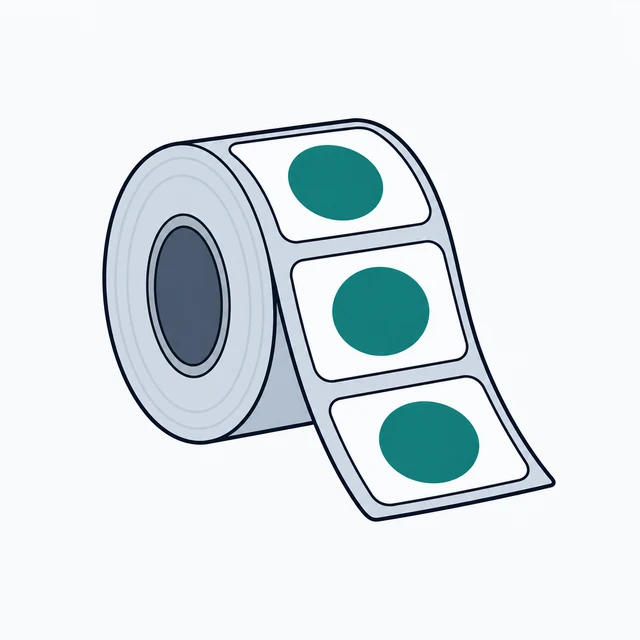
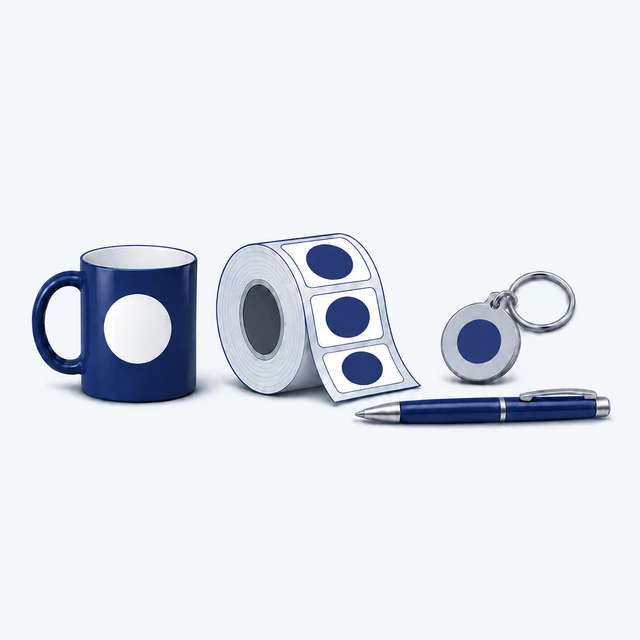
feat: imágenes del catálogo en azul marino de la marca
Las 8 imágenes de categoría se redibujaron con el generador de imágenes
de Codex en estilo semirrealista, con azul marino #1f2a6b y grises.
Norman validó cada una.

- Corte y grabado láser muestra una grabadora láser (antes un plotter).
- Mobiliario muestra mostrador y estante de melamina (antes cajas).
- Se retiran entrega, plotter-de-corte, folletos y rollos-de-vinil.
- La prueba de imágenes falla si alguna tiene píxeles verdes.
- docs/diseno.md documenta color, estilo y encuadre de la tarjeta 5:2.

Changed region(s): [[0.0312, 0.1875, 0.9688, 0.8125]]

diff --git a/tests/unit/catalogo-imagenes.test.ts b/tests/unit/catalogo-imagenes.test.ts
@@ -8,18 +8,34 @@ import { imagenPorCategoria } from "@/modules/catalogo/imagenes";
 const casos = [
   ["Rotulación y gran formato", "lona-publicitaria"], ["Impresión y artes gráficas", "impresora-gran-formato"],
   ["Diseño y branding", "tarjetas"], ["Publicidad digital y medios", "roll-up"], ["Artículos promocionales", "etiquetas"],
-  ["Letras corpóreas y rótulos luminosos", "rotulo-rigido"], ["Corte y grabado láser", "plotter-de-corte"],
-  ["Mobiliario", "entrega"], ["Otra categoría", "entrega"],
+  ["Letras corpóreas y rótulos luminosos", "rotulo-rigido"], ["Corte y grabado láser", "grabado-laser"],
+  ["Mobiliario", "mueble-exhibidor"], ["Otra categoría", "lona-publicitaria"],
 ];
+const archivos = [...new Set(casos.map(([, archivo]) => archivo))];
+const ruta = (archivo: string) => path.join("public", "seed", "productos", `${archivo}.webp`);
+
 it.each(casos)("asigna imagen a %s sin tildes ni distinción de mayúsculas", (categoria, archivo) => {
   const esperada = `/seed/productos/${archivo}.webp`;
   expect(imagenPorCategoria(categoria)).toBe(esperada);
-  expect(imagenPorCategoria(categoria.normalize("NFD").replace(/[\u0300-\u036f]/g, "").toUpperCase())).toBe(esperada);
+  expect(imagenPorCategoria(categoria.normalize("NFD").replace(/[̀-ͯ]/g, "").toUpperCase())).toBe(esperada);
 });
 it("los ocho archivos existen y tienen 640 por 640 píxeles", async () => {
-  for (const archivo of new Set(casos.map(([, archivo]) => archivo))) {
-    const ruta = path.join("public", "seed", "productos", `${archivo}.webp`);
-    expect(existsSync(ruta)).toBe(true);
-    expect(await sharp(ruta).metadata()).toMatchObject({ width: 640, height: 640, format: "webp" });
+  expect(archivos).toHaveLength(8);
+  for (const archivo of archivos) {
+    expect(existsSync(ruta(archivo))).toBe(true);
+    expect(await sharp(ruta(archivo)).metadata()).toMatchObject({ width: 640, height: 640, format: "webp" });
   }
+});
+// La paleta de marca es azul marino y grises (docs/diseno.md). El verde anterior (#108078) tiene tono 176°.
+it.each(archivos)("%s no tiene píxeles verdes", async (archivo) => {
+  const { data } = await sharp(ruta(archivo)).removeAlpha().raw().toBuffer({ resolveWithObject: true });
+  let verdes = 0;
+  for (let i = 0; i < data.length; i += 3) {
+    const [r, g, b] = [data[i], data[i + 1], data[i + 2]];
+    const maximo = Math.max(r, g, b), diferencia = maximo - Math.min(r, g, b);
+    if (maximo <= 40 || diferencia / maximo <= 0.25) continue;
+    const tono = maximo === g ? 60 * ((b - r) / diferencia + 2) : maximo === b ? 60 * ((r - g) / diferencia + 4) : -1;
+    if (tono >= 140 && tono <= 190) verdes++;
+  }
+  expect(verdes).toBe(0);
 });

diff --git a/src/modules/catalogo/imagenes.ts b/src/modules/catalogo/imagenes.ts
@@ -1,3 +1,4 @@
+// Una imagen por categoría (public/seed/productos). Especificación de color y encuadre en docs/diseno.md.
 const IMAGENES: Readonly<Record<string, string>> = {
   "rotulacion y gran formato": "lona-publicitaria",
   "impresion y artes graficas": "impresora-gran-formato",
@@ -5,11 +6,13 @@ const IMAGENES: Readonly<Record<string, string>> = {
   "publicidad digital y medios": "roll-up",
   "articulos promocionales": "etiquetas",
   "letras corporeas y rotulos luminosos": "rotulo-rigido",
-  "corte y grabado laser": "plotter-de-corte",
-  mobiliario: "entrega",
+  "corte y grabado laser": "grabado-laser",
+  mobiliario: "mueble-exhibidor",
 };
+/** Categorías nuevas sin imagen propia: rotulación es el servicio principal de la empresa. */
+const POR_DEFECTO = "lona-publicitaria";
 
 export function imagenPorCategoria(categoria: string): string {
-  const nombre = categoria.normalize("NFD").replace(/[\u0300-\u036f]/g, "").toLowerCase().trim();
-  return `/seed/productos/${IMAGENES[nombre] ?? "entrega"}.webp`;
+  const nombre = categoria.normalize("NFD").replace(/[̀-ͯ]/g, "").toLowerCase().trim();
+  return `/seed/productos/${IMAGENES[nombre] ?? POR_DEFECTO}.webp`;
 }

diff --git a/docs/diseno.md b/docs/diseno.md
@@ -159,6 +159,21 @@ Ese endpoint es un supuesto. El agente de autenticación debe crearlo.
 9. Oculta navegación con `permisos`. El servidor decide el acceso real.
 10. No agregues color de acento nuevo. Reutiliza los estados.
 
+## Imágenes del catálogo
+
+Cada categoría tiene una imagen en `public/seed/productos/` (mapeo en `src/modules/catalogo/imagenes.ts`).
+Las 8 se redibujaron el 2026-11-04 con el generador de imágenes de Codex. Norman validó cada una.
+
+- Formato: WebP de 640x640 px.
+- Estilo: ilustración de producto semirrealista y limpia. Contorno fino `#1e293b`, sombreado suave y acabados mate.
+- Fondo liso `#f8fafc`. Sin texto, letras legibles ni logotipos.
+- Color: azul marino `#1f2a6b` y sus tonos, blanco y grises fríos (`#eef1fb`, `#cbd5e1`, `#94a3b8`, `#475569`).
+- Prohibido: verde, verde azulado, dorado, café, rojo y naranja.
+- Encuadre: la tarjeta (`aspect-[5/2]`, `object-cover`) muestra solo la franja y=192 a y=448. El sujeto completo va entre y=180 y y=460.
+- La ficha muestra la imagen cuadrada a 80 px. Prefiera sujetos que se lean a ese tamaño.
+- `tests/unit/catalogo-imagenes.test.ts` falla si una imagen tiene píxeles verdes (tono 140° a 190°).
+- Las imágenes verdes anteriores quedan en `_archivo/catalogo-verde/`.
+
 ## Adaptabilidad (CF-08)
 
 | Ancho | Menú | Contenido |
